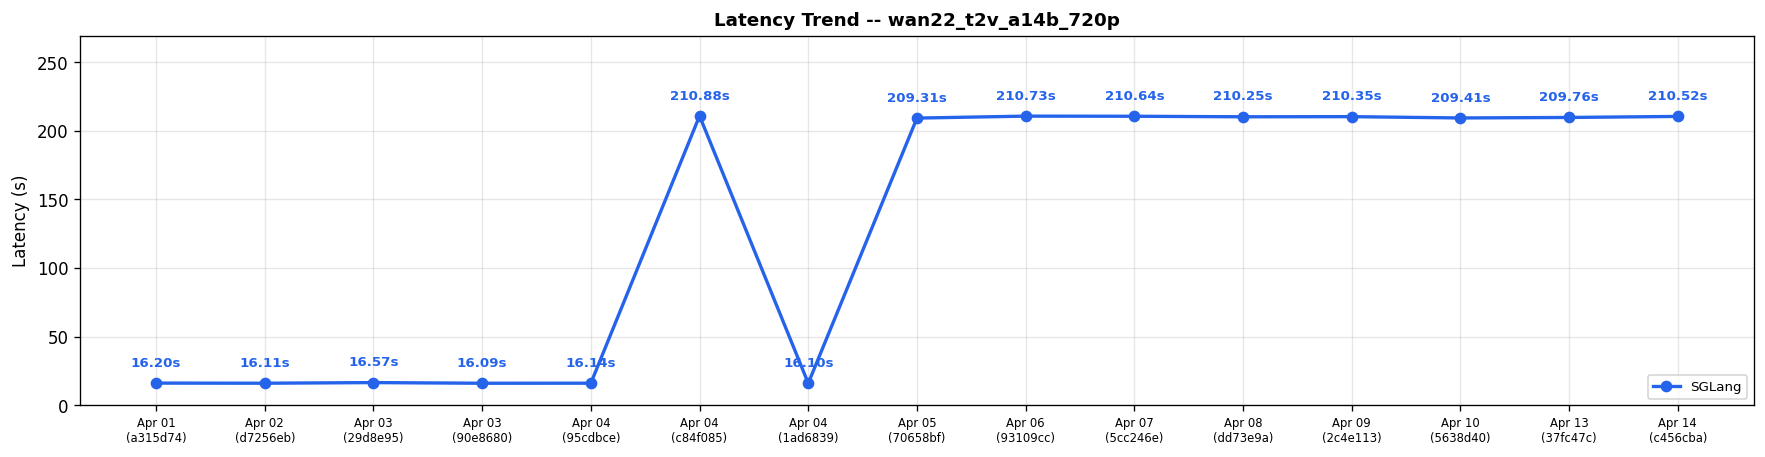
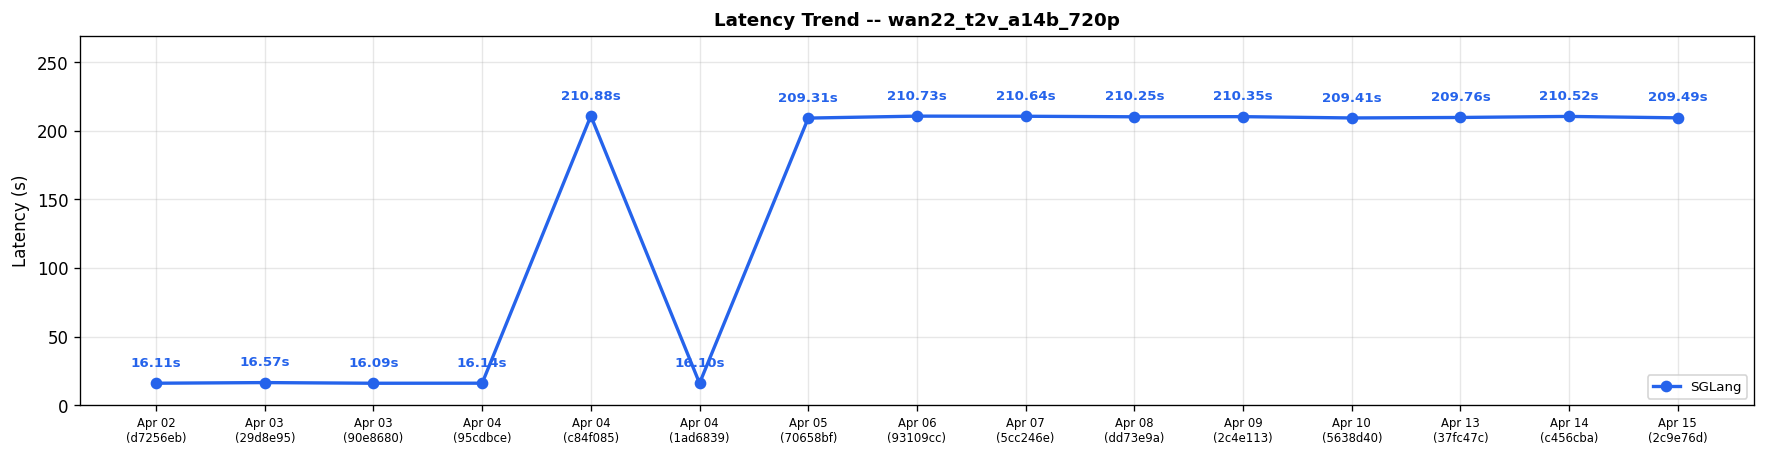
Diffusion comparison results for run 24430533442 (#568)

diff --git a/diffusion-comparisons/dashboard.md b/diffusion-comparisons/dashboard.md
@@ -1,21 +1,21 @@
 # Diffusion Cross-Framework Performance Dashboard
 
-*Generated: Apr 14 | Commit: `c456cba`*
+*Generated: Apr 15 | Commit: `2c9e76d`*
 
 ## Cross-Framework Performance Comparison
 
 | Model | Risk | sglang (s) |
 |-------|------|---------|
-| FLUX.1-dev | ✅ | **6.70** |
-| FLUX.2-dev | ✅ | **22.85** |
-| Qwen-Image-2512 | ✅ | **13.17** |
-| Qwen-Image-Edit-2511 | ✅ | **23.83** |
+| FLUX.1-dev | ✅ | **6.69** |
+| FLUX.2-dev | ✅ | **22.78** |
+| Qwen-Image-2512 | ✅ | **13.14** |
+| Qwen-Image-Edit-2511 | ✅ | **23.82** |
 | Z-Image-Turbo | ✅ | **0.89** |
-| Wan2.2-T2V-A14B-Diffusers | ✅ | **210.52** |
-| Wan2.2-TI2V-5B-Diffusers | ✅ | **62.16** |
-| LTX-2 | ✅ | **14.58** |
-| LTX-2.3 | ✅ | **42.10** |
-| Wan2.2-I2V-A14B-Diffusers | ✅ | **206.54** |
+| Wan2.2-T2V-A14B-Diffusers | ✅ | **209.49** |
+| Wan2.2-TI2V-5B-Diffusers | ✅ | **63.18** |
+| LTX-2 | ✅ | **14.97** |
+| LTX-2.3 | ❌ | N/A |
+| Wan2.2-I2V-A14B-Diffusers | ✅ | **206.58** |
 
 ### Latency Trend: flux1_dev_t2i_1024
 
@@ -57,11 +57,6 @@
 ![Latency Trend ltx2_twostage_t2v](https://raw.githubusercontent.com/sglang-bot/sglang-ci-data/main/diffusion-comparisons/charts/latency_ltx2_twostage_t2v.png)
 
 
-### Latency Trend: ltx2.3_twostage_t2v_2gpus
-
-![Latency Trend ltx2.3_twostage_t2v_2gpus](https://raw.githubusercontent.com/sglang-bot/sglang-ci-data/main/diffusion-comparisons/charts/latency_ltx2.3_twostage_t2v_2gpus.png)
-
-
 ### Latency Trend: wan22_i2v_a14b_720p
 
 ![Latency Trend wan22_i2v_a14b_720p](https://raw.githubusercontent.com/sglang-bot/sglang-ci-data/main/diffusion-comparisons/charts/latency_wan22_i2v_a14b_720p.png)
@@ -69,9 +64,10 @@
 
 ## SGLang Performance Trend (Last 15 Runs)
 
-| Date | Commit | flux1_dev_t2i_1024 (s) | flux2_dev_t2i_1024 (s) | qwen_image_2512_t2i_1024 (s) | qwen_image_edit_2511 (s) | zimage_turbo_t2i_1024 (s) | wan22_t2v_a14b_720p (s) | wan22_ti2v_5b_720p (s) | ltx2_twostage_t2v (s) | ltx2.3_twostage_t2v_2gpus (s) | wan22_i2v_a14b_720p (s) | Trend |
+| Date | Commit | flux1_dev_t2i_1024 (s) | flux2_dev_t2i_1024 (s) | qwen_image_2512_t2i_1024 (s) | qwen_image_edit_2511 (s) | zimage_turbo_t2i_1024 (s) | wan22_t2v_a14b_720p (s) | wan22_ti2v_5b_720p (s) | ltx2_twostage_t2v (s) | ltx2.3_twostage_ti2v_2gpus (s) | wan22_i2v_a14b_720p (s) | Trend |
 |------|--------|---------|---------|---------|---------|---------|---------|---------|---------|---------|---------|-------|
-| Apr 14 | `c456cba` | 6.70 | 22.85 | 13.17 | 23.83 | 0.89 | 210.52 | 62.16 | 14.58 | 42.10 | 206.54 | :left_right_arrow:  :left_right_arrow:  :left_right_arrow:  :left_right_arrow:  :left_right_arrow:  :left_right_arrow:  :left_right_arrow:  :left_right_arrow:   :left_right_arrow: |
+| Apr 15 | `2c9e76d` | 6.69 | 22.78 | 13.14 | 23.82 | 0.89 | 209.49 | 63.18 | 14.97 | N/A | 206.58 | :left_right_arrow:  :left_right_arrow:  :left_right_arrow:  :left_right_arrow:  :left_right_arrow:  :left_right_arrow:  :left_right_arrow:  :arrow_up:   :left_right_arrow: |
+| Apr 14 | `c456cba` | 6.70 | 22.85 | 13.17 | 23.83 | 0.89 | 210.52 | 62.16 | 14.58 | N/A | 206.54 | :left_right_arrow:  :left_right_arrow:  :left_right_arrow:  :left_right_arrow:  :left_right_arrow:  :left_right_arrow:  :left_right_arrow:  :left_right_arrow:   :left_right_arrow: |
 | Apr 13 | `37fc47c` | 6.60 | 22.61 | 12.99 | 23.60 | 0.88 | 209.76 | 61.17 | 14.74 | N/A | 207.63 | :left_right_arrow:  :left_right_arrow:  :left_right_arrow:  :left_right_arrow:  :left_right_arrow:  :left_right_arrow:  :left_right_arrow:  :arrow_up:   :left_right_arrow: |
 | Apr 10 | `5638d40` | 6.68 | 22.78 | 13.16 | 23.76 | 0.88 | 209.41 | 62.16 | 14.21 | N/A | 204.58 | :left_right_arrow:  :left_right_arrow:  :left_right_arrow:  :left_right_arrow:  :left_right_arrow:  :left_right_arrow:  :left_right_arrow:  :arrow_down:   :left_right_arrow: |
 | Apr 09 | `2c4e113` | 6.71 | 22.93 | 13.20 | 23.80 | 0.89 | 210.35 | 62.16 | 14.71 | N/A | 206.54 | :left_right_arrow:  :left_right_arrow:  :left_right_arrow:  :left_right_arrow:  :left_right_arrow:  :left_right_arrow:  :left_right_arrow:  :arrow_down:   :left_right_arrow: |
@@ -84,8 +80,14 @@
 | Apr 04 | `95cdbce` | 6.68 | 22.80 | 13.51 | 29.41 | 0.93 | 16.14 | 63.19 | N/A | N/A | 21.07 | :left_right_arrow:  :left_right_arrow:  :left_right_arrow:  :left_right_arrow:  :left_right_arrow:  :left_right_arrow:  :left_right_arrow:    :left_right_arrow: |
 | Apr 03 | `90e8680` | 6.72 | 22.89 | 13.57 | 29.56 | 0.93 | 16.09 | 62.17 | N/A | N/A | 21.06 | :left_right_arrow:  :left_right_arrow:  :left_right_arrow:  :left_right_arrow:  :left_right_arrow:  :arrow_down:  :left_right_arrow:    :left_right_arrow: |
 | Apr 03 | `29d8e95` | 6.69 | 22.88 | 13.55 | 29.62 | 0.93 | 16.57 | 62.18 | N/A | N/A | 21.07 | :left_right_arrow:  :left_right_arrow:  :arrow_up:  :left_right_arrow:  :left_right_arrow:  :arrow_up:  :left_right_arrow:    :arrow_down: |
-| Apr 02 | `d7256eb` | 6.70 | 22.87 | 13.18 | 29.59 | 0.93 | 16.11 | 62.20 | N/A | N/A | 22.07 | :left_right_arrow:  :left_right_arrow:  :left_right_arrow:  :left_right_arrow:  :left_right_arrow:  :left_right_arrow:  :left_right_arrow:    :left_right_arrow: |
-| Apr 01 | `a315d74` | 6.70 | 22.89 | 13.30 | 29.70 | 0.92 | 16.20 | 62.19 | N/A | N/A | 22.08 | -- |
+| Apr 02 | `d7256eb` | 6.70 | 22.87 | 13.18 | 29.59 | 0.93 | 16.11 | 62.20 | N/A | N/A | 22.07 | -- |
+
+> [!CAUTION]
+> **Action Required — Performance Alert**
+>
+> The following cases need attention:
+> - ltx2.3_twostage_ti2v_2gpus: SGLang latency is N/A (broken)
+
 
 ---
 *Generated by `generate_diffusion_dashboard.py` in SGLang nightly CI.*
